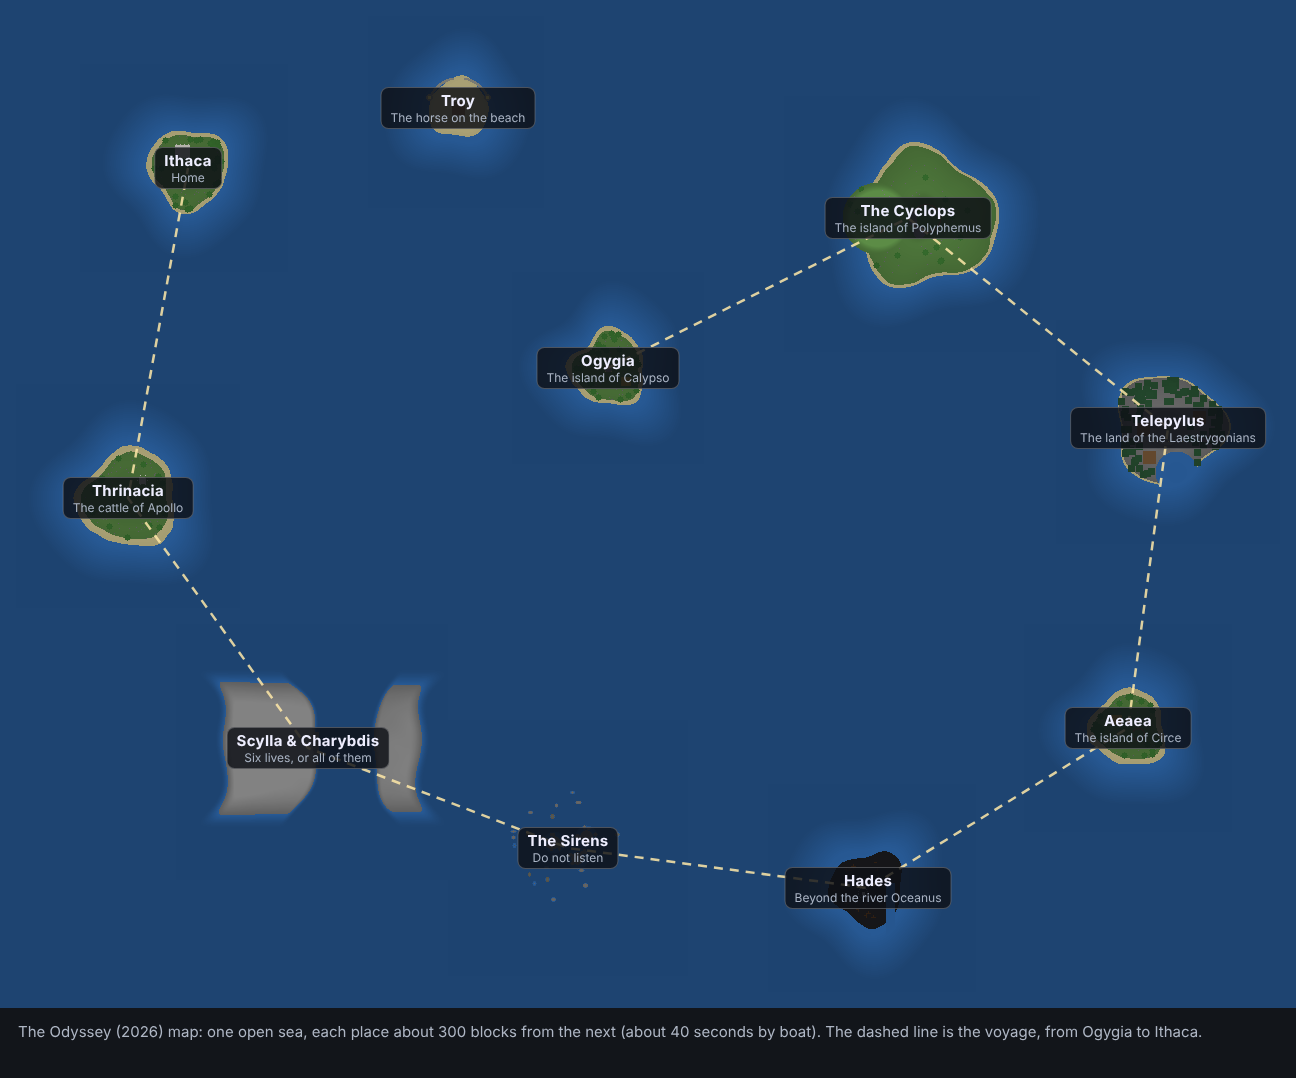
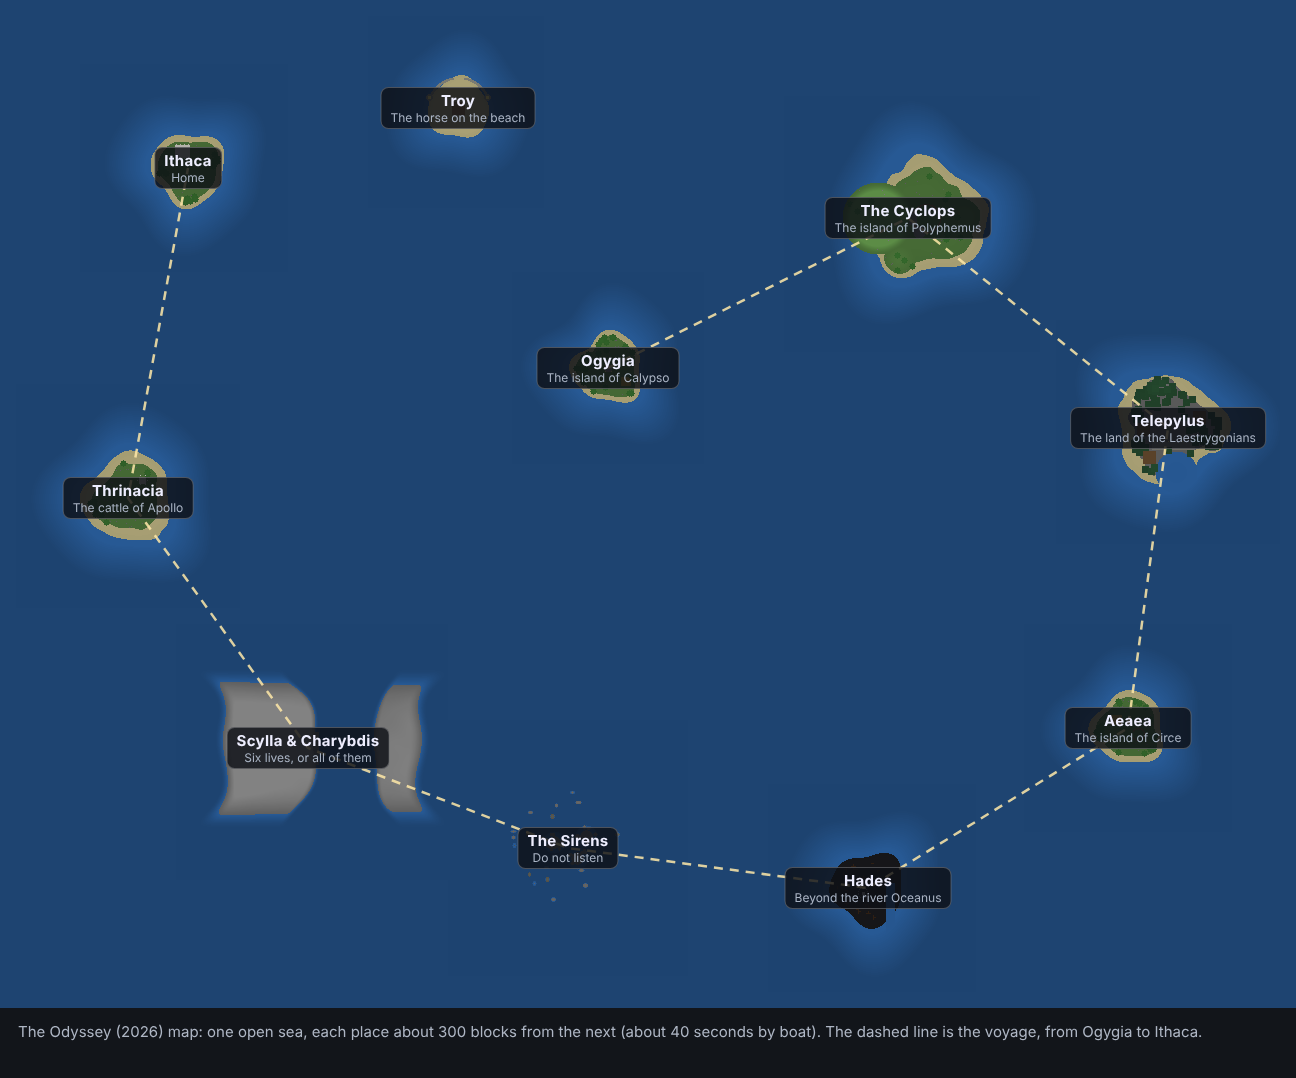
Fix the map's blocks and island shape, and liven the idle animation
In game the trees, house walls, logs, flowers and Hades's black sand showed as
dirt: the world builder wrote about a dozen block types under names Amulet
cannot translate to Bedrock, so the game saw unknown blocks. They are now given
the way the translator knows them, and the build stops if any block fails to
translate.

The islands rose into a ring of hills around the flat start area, so players
stood in a crater with stepped walls. They now fall gently from a flat plateau
to the shore, with hills only out on the slopes of the bigger islands.

Humanoid idle animation: slower breathing is now visible, with a shift of
weight, a turning head and swaying arms. Pack version 1.2.2.

Claude-Session: https://claude.ai/code/session_018KDgim7uAr7CzYNDK26Ehx

diff --git a/tools/odyssey/world.py b/tools/odyssey/world.py
@@ -45,6 +45,24 @@ BLOCKS = {
     "poppy": ("poppy", {}), "terracotta": ("terracotta", {}), "tuff": ("tuff", {}), "calcite": ("calcite", {}),
     "white_concrete": ("white_concrete", {}),
 }
+# Blocks Amulet's universal format has no plain name for are given the way its Bedrock translator knows them
+# (namespace, name, properties); an untranslated block would be written as an unknown block and show up as dirt.
+SPECIAL = {
+    "planks": ("minecraft", "planks", {"wood_type": "oak"}),
+    "spruce_planks": ("minecraft", "planks", {"wood_type": "spruce"}),
+    "log": ("universal_minecraft", "log", {"axis": "y", "material": "oak", "stripped": "false"}),
+    "spruce_log": ("universal_minecraft", "log", {"axis": "y", "material": "spruce", "stripped": "false"}),
+    "dark_log": ("universal_minecraft", "log", {"axis": "y", "material": "dark_oak", "stripped": "false"}),
+    "leaves": ("minecraft", "leaves", {"old_leaf_type": "oak", "persistent_bit": "1", "update_bit": "0"}),
+    "spruce_leaves": ("minecraft", "leaves", {"old_leaf_type": "spruce", "persistent_bit": "1", "update_bit": "0"}),
+    "fence": ("universal_minecraft", "fence", {"material": "oak", "east": "false", "north": "false", "south": "false", "west": "false"}),
+    "black_powder": ("minecraft", "concrete_powder", {"color": "black"}),
+    "white_concrete": ("minecraft", "concrete", {"color": "white"}),
+    "dandelion": ("universal_minecraft", "plant", {"plant_type": "dandelion"}),
+    "poppy": ("minecraft", "red_flower", {"flower_type": "poppy"}),
+    "mossy_bricks": ("universal_minecraft", "stone_bricks", {"variant": "mossy"}),
+}
+BLOCKS.pop("polished_andesite", None)
 NAMES = list(BLOCKS)
 IDX = {n: i for i, n in enumerate(NAMES)}
 MAP_COLORS = {"water": (40, 90, 150), "sand": (226, 214, 156), "grass": (92, 140, 70), "stone": (130, 130, 130),
@@ -100,20 +118,30 @@ class Canvas:
         return n / 1.75
 
     # ---- terrain
-    def island(self, R, peak, plateau, Y, ox=0, oz=0, wobble=0.12, amp=1.6):
-        """Raise a roughly round island: flat at Y inside the plateau, rolling up to `peak`, falling into the sea and then
-        sloping away under water to the deep floor, so no shelf ends in a square step at the edge of the canvas."""
+    def island(self, R, peak, plateau, Y, ox=0, oz=0, wobble=0.12, amp=1.6, hills=2):
+        """Raise a roughly round island: flat at Y inside the plateau, falling gently to the shore, with a few hills out on
+        the slopes (never around the plateau, which would make it a crater), then sloping away under water to the deep
+        floor so no shelf ends in a square step at the edge of the canvas."""
         dx, dz = self.X - (self.cx + ox), self.Z - (self.cz + oz)
         d, ang = np.hypot(dx, dz), np.arctan2(dz, dx)
         wob = 1 + wobble * np.sin(3 * ang + self.phase[0]) + 0.5 * wobble * np.sin(5 * ang + self.phase[1])
         de = d / wob
-        t = np.clip(1 - (de / R) ** 2, 0, 1)
-        land = (WP.SEA - 3) + (peak - (WP.SEA - 3)) * t ** 1.2
-        f = smooth((de - plateau) / 10.0)
-        land = np.where(de < plateau, Y, Y * (1 - f) + land * f + self.noise(18.0) * amp * f)
-        sea = np.clip(WATER_TOP - (de - 0.9 * R) * 0.55, SEA_FLOOR, WATER_TOP)
-        w = smooth((de - 0.86 * R) / (0.08 * R))
-        h = land * (1 - w) + sea * w
+        coast = 0.86 * R
+        prof = smooth((de - plateau) / max(coast - plateau, 1.0))
+        land = Y - (Y - WATER_TOP) * prof
+        lo, hi = plateau + 8, coast - 10
+        bumps = np.zeros_like(d)
+        if hi > lo + 6 and peak > Y:
+            for _ in range(hills):
+                a_, dist = self.rng.uniform(0, 6.28), self.rng.uniform(lo, hi)
+                hx, hz = self.cx + ox + math.cos(a_) * dist, self.cz + oz + math.sin(a_) * dist
+                hr, hh = max(10.0, (hi - lo) * 0.9), (peak - Y) * self.rng.uniform(0.6, 1.0)
+                bumps = np.maximum(bumps, hh * smooth(1 - np.hypot(self.X - hx, self.Z - hz) / hr))
+        inland = smooth((coast - de) / (0.25 * R)) * smooth((de - plateau) / 8.0)       # flat plateau, calm shore
+        h_land = land + (bumps + self.noise(18.0) * amp) * inland
+        sea = np.clip(WATER_TOP - (de - coast) * 0.55, SEA_FLOOR, WATER_TOP)
+        w = smooth((de - coast) / (0.06 * R))
+        h = h_land * (1 - w) + sea * w
         self.H = np.maximum(self.H, np.rint(h).astype(int))
         return d, wob
 
@@ -263,7 +291,7 @@ class Canvas:
 # ================================================================== the places
 def site_ogygia(c):
     Y = c.p["y"]
-    c.island(R=44, peak=71, plateau=17, Y=Y)
+    c.island(R=44, peak=71, plateau=26, Y=Y)
     c.finish_terrain()
     c.clear(c.cx, c.cz, 10); c.clear(c.cx + 7, c.cz + 5, 6)
     # the shrine: a stone dais with the lodestone that tells the script this is the map
@@ -281,7 +309,7 @@ def site_ogygia(c):
 
 def site_troy(c):
     Y = c.p["y"]
-    c.island(R=38, peak=66, plateau=22, Y=Y, wobble=0.07, amp=0.6)
+    c.island(R=38, peak=64, plateau=24, Y=Y, wobble=0.07, amp=0.6, hills=0)
     c.finish_terrain(top=np.full_like(c.H, IDX["sand"]), sub=IDX["sand"])
     c.clear(c.cx, c.cz, 9)
     c.box(c.cx - 6, Y - 1, c.cz - 6, c.cx + 6, Y, c.cz + 6, "planks")            # the horse's platform
@@ -300,7 +328,7 @@ def site_troy(c):
 
 def site_cyclops(c):
     Y = c.p["y"]
-    c.island(R=76, peak=80, plateau=17, Y=Y, ox=18, oz=0, wobble=0.1)
+    c.island(R=76, peak=80, plateau=26, Y=Y, ox=18, oz=0, wobble=0.1)
     # the hill he lives in, to the west: steep sides, a high top, and a cave in its east foot
     d = np.hypot(c.X - (c.cx - 30), c.Z - c.cz)
     k = smooth((36 - d) / 12.0)
@@ -321,7 +349,7 @@ def site_cyclops(c):
 
 def site_telepylus(c):
     Y = c.p["y"]
-    c.island(R=60, peak=84, plateau=15, Y=Y, wobble=0.1)
+    c.island(R=70, peak=84, plateau=32, Y=Y, wobble=0.1, hills=5)
     d = np.hypot(c.X - (c.cx + 8), c.Z - (c.cz + 44))                                          # the harbour, cut into the south
     c.H = np.where(d < 21, np.minimum(c.H, WP.SEA - 3 + (d / 21) * 2), c.H)
     c.finish_terrain(top=np.where(c.H <= WP.SEA + 1, IDX["sand"], IDX["podzol"]), sub=IDX["dirt"])
@@ -339,7 +367,7 @@ def site_telepylus(c):
 
 def site_aeaea(c):
     Y = c.p["y"]
-    c.island(R=46, peak=69, plateau=22, Y=Y, wobble=0.09, amp=1.0)
+    c.island(R=46, peak=69, plateau=26, Y=Y, wobble=0.09, amp=1.0)
     c.finish_terrain()
     c.clear(c.cx, c.cz + 4, 8)
     c.clear(c.cx - 12, c.cz - 8, 8)
@@ -352,7 +380,7 @@ def site_aeaea(c):
 
 def site_hades(c):
     Y = c.p["y"]
-    c.island(R=46, peak=67, plateau=24, Y=Y, wobble=0.1, amp=0.8)
+    c.island(R=46, peak=67, plateau=26, Y=Y, wobble=0.1, amp=0.8)
     # the river Oceanus: a channel from the south sea up into the island
     ch = (np.abs(c.X - (c.cx + 22)) < 5) & (c.Z > c.cz - 6)
     c.H = np.where(ch, np.minimum(c.H, WP.SEA - 4), c.H)
@@ -412,7 +440,7 @@ def site_strait(c):
 
 def site_thrinacia(c):
     Y = c.p["y"]
-    c.island(R=58, peak=70, plateau=24, Y=Y, wobble=0.08, amp=1.2)
+    c.island(R=58, peak=70, plateau=26, Y=Y, wobble=0.08, amp=1.2)
     c.finish_terrain()
     c.clear(c.cx, c.cz, 19)
     for k in range(6):                                                                          # the altar of the sun
@@ -425,7 +453,7 @@ def site_thrinacia(c):
 
 def site_ithaca(c):
     Y = c.p["y"]
-    c.island(R=46, peak=72, plateau=20, Y=Y, wobble=0.09)
+    c.island(R=46, peak=72, plateau=26, Y=Y, wobble=0.09)
     c.finish_terrain()
     c.clear(c.cx + 4, c.cz + 6, 7)
     x0, z0 = c.cx - 12, c.cz - 22                                                               # home: a white house with columns
@@ -522,8 +550,12 @@ def write_level(path, canvases, log=print):
     dim = "minecraft:overworld"
     pal = level.block_palette
     def universal(k):
-        name, props = BLOCKS[k]
-        return Block("universal_minecraft", name, {a: amulet_nbt.StringTag(b) for a, b in props.items()})
+        ns, name, props = SPECIAL.get(k, ("universal_minecraft",) + BLOCKS[k])
+        return Block(ns, name, {a: amulet_nbt.StringTag(b) for a, b in props.items()})
+    bedrock = level.translation_manager.get_version("bedrock", (1, 21, 0))
+    untranslated = [k for k in NAMES if bedrock.block.from_universal(universal(k))[0].namespace != "minecraft"]
+    if untranslated:
+        raise SystemExit(f"these blocks do not translate to Bedrock and would show up as dirt: {untranslated}")
     ids = np.array([pal.get_add_block(universal(k)) for k in NAMES], dtype=np.uint32)
     sea = np.full((16, NY, 16), IDX["air"], np.uint8)
     sea[:, 0, :] = IDX["bedrock"]
@@ -620,14 +652,14 @@ def verify_world(path, log=print):
     m = WP.MARKER
     if block(m["x"], m["y"], m["z"]) != m["block"].replace("minecraft:", ""):
         problems.append(f"no {m['block']} at the marker position {m}")
-    solid_not = {"air", "water", "oak_leaves", "spruce_leaves", "short_grass", "dandelion", "poppy"}
+    solid_not = {"air", "water", "leaves", "oak_leaves", "spruce_leaves", "short_grass", "dandelion", "poppy", "plant", "red_flower"}
     for s in WP.SITES:
         for typ, dx, dz in s["creatures"]:
             x, y, z = s["x"] + dx, s["y"], s["z"] + dz
             if block(x, y, z) in solid_not:
                 problems.append(f"{s['id']}: {typ} would stand on {block(x, y, z)} at {(x, y, z)}")
             top = HEADROOM.get(typ, 3)
-            blocked = [yy for yy in range(y + 1, y + 1 + top) if block(x, yy, z) not in ("air", "dandelion", "poppy")]
+            blocked = [yy for yy in range(y + 1, y + 1 + top) if block(x, yy, z) not in ("air", "plant", "red_flower")]
             if blocked:
                 problems.append(f"{s['id']}: {typ} at {(x, y, z)} has no room above (blocked at y={blocked[0]}: {block(x, blocked[0], z)})")
     # the sea connects the places: flood fill open water, 16 blocks at a time, from Ogygia and see what can be reached

diff --git a/tools/odyssey/anims.py b/tools/odyssey/anims.py
@@ -107,10 +107,12 @@ def walk(k, leg=26, knee=30, arm=16, bob=0.4, roll=3, legs=("thigh", "shin"), ar
 
 
 def human_idle(head_amp=10, breathe=1.2):
-    return A({"chest": rot(f"math.sin(q.life_time*60)*{breathe}"),
-              "head": rot("math.sin(q.life_time*28)*3", f"math.sin(q.life_time*17)*{head_amp}"),
-              "arm_r": rot("math.sin(q.life_time*40)*2", 0, "math.sin(q.life_time*23)*1.5"),
-              "arm_l": rot("-math.sin(q.life_time*40)*2", 0, "-math.sin(q.life_time*23)*1.5")})
+    """Standing and alive: slow breathing, a shifting of weight, the head turning to look, arms swaying a little."""
+    return A({"chest": rot(f"math.sin(q.life_time*60)*{breathe}*1.8", "math.sin(q.life_time*21)*2.5", "math.sin(q.life_time*33)*1.3"),
+              "head": rot("math.sin(q.life_time*28)*4", f"math.sin(q.life_time*17)*{head_amp}*1.3+math.sin(q.life_time*43)*2"),
+              "arm_r": rot("math.sin(q.life_time*40)*4.5", 0, "3+math.sin(q.life_time*23)*3"),
+              "arm_l": rot("-math.sin(q.life_time*40)*4.5", 0, "-3-math.sin(q.life_time*23)*3"),
+              "hips": {"position": ["math.sin(q.life_time*33)*0.14", "math.sin(q.life_time*60)*0.08", 0]}})
 
 
 def stand_legs(times, thigh, shin, foot=None):
